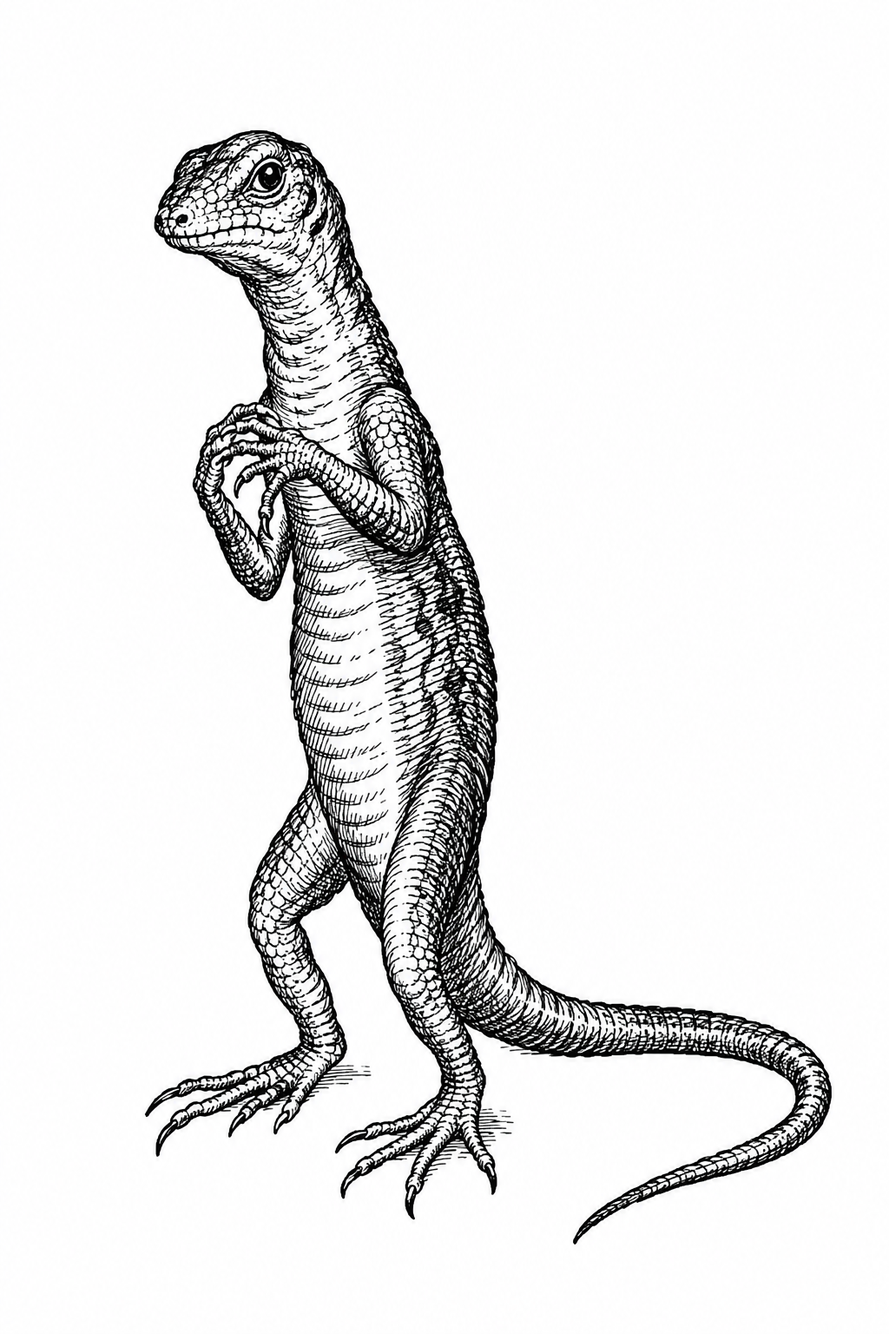
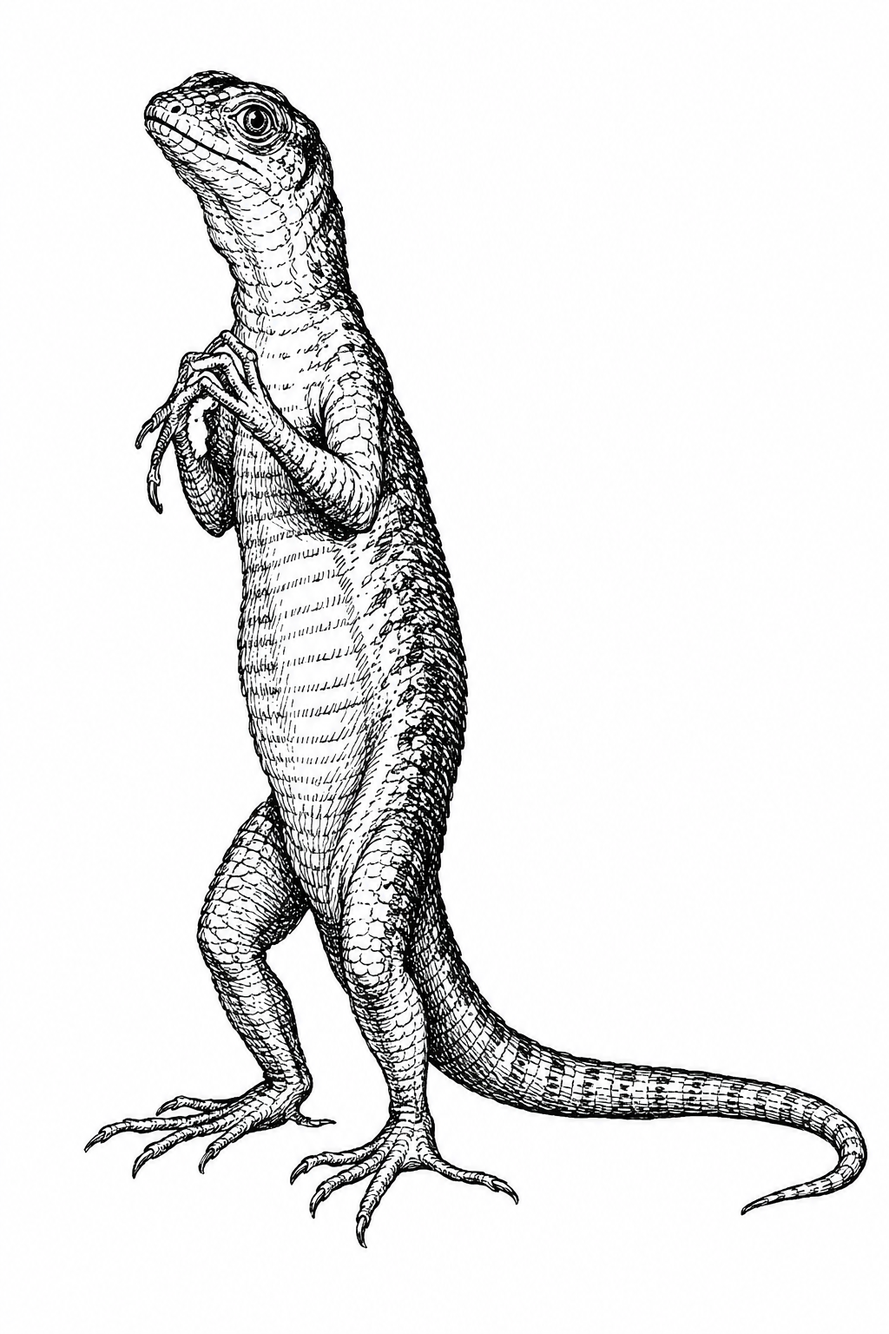
Chapter IV: Bill, the guinea-pigs, Pat and the puppy in the game
Fourteen drawings (tools/ch4_art.py): Bill standing, carrying the other
ladder, climbing, flying out of the chimney, limp; the guinea-pigs
standing, holding him up, with the bottle; Pat with his spade and with his
cap in his hands; the puppy crouching, jumping, tumbling, sitting. The
yard action is moved close to the house and clear of the cucumber-frames,
with low yard shots so it stays above the text. Bill and the guinea-pigs
also in the Chapter XII dream.

Claude-Session: https://claude.ai/code/session_01JLwjHTre9qSRtmM6Ke648R

Changed region(s): [[0.0938, 0.0312, 1.0, 0.9375], [0.6562, 0.9062, 0.6875, 0.9375]]

diff --git a/src/scenes/rabbit.js b/src/scenes/rabbit.js
@@ -157,7 +157,7 @@ export const rabbitHouse = {
     const framesWhole = paperFlat(texture(cucumberFrames(false)), 1.4, 0.44), framesBroken = paperFlat(texture(cucumberFrames(true)), 1.4, 0.44);
     for (const f of [framesWhole, framesBroken]) { f.position.set(FRAMES.x, 0, FRAMES.z); group.add(f); }
     const lad = paperFlat(texture(ladder()), 0.5, HH + 0.1); lad.position.set(HW / 2 - 0.25, 0, 0.25); lad.rotation.x = -0.08; group.add(lad);
-    const bar = paperFlat(texture(barrow()), 0.6, 0.33); bar.position.set(-1.0, 0, 1.6); group.add(bar);
+    const bar = paperFlat(texture(barrow()), 0.6, 0.33); bar.position.set(1.75, 0, 0.75); group.add(bar);
     // Her arm out of the window, hanging down the front of the house.
     const ARM = 0.7; // shoulder to fingertips at her full size: it "fills the whole window"
     const arm = paperFlat(ai['ch4/alice_hand'].tex, ARM, ARM / ai['ch4/alice_hand'].aspect, { anchor: 'center' }); // AI, after Tenniel's plate 4.2
@@ -192,7 +192,7 @@ export const rabbitHouse = {
         return { ...s, pose: 'stand', scale, visible: t < T.upstairs - 1.2 };
       }
       if (t >= T.ranOut) { // out of the door, small, and away "as hard as she could"
-        const s = route(t, [[T.ranOut, { x: DOORX, z: 0.15, dir: -1 }], [T.held - 1, { x: DOORX - 0.2, z: 0.6 }], [T.ranOff, { x: DOORX - 0.2, z: 0.6 }], [T.ranOff + 3, { x: -3.5, z: 2.2 }]], { phase: t * 3 });
+        const s = route(t, [[T.ranOut, { x: DOORX, z: 0.15, dir: 1 }], [T.held - 1, { x: DOORX + 0.05, z: 0.45 }], [T.ranOff, { x: DOORX + 0.05, z: 0.45 }], [T.ranOff + 3, { x: -3.5, z: 1.6, dir: -1 }]], { phase: t * 3 });
         return { ...s, pose: 'stand', scale, y: 0 };
       }
       // Inside: in at the door (thinking of Dinah), to the table, to the looking-glass, then growing.
@@ -220,45 +220,49 @@ export const rabbitHouse = {
       const s = route(t, [
         [T.window - 1, { x: DOORX + 0.3, z: 1.0, dir: 1 }], [T.window + 4, UNDER],      // "round … to the window"
         [T.shriek, UNDER], [T.shriek + 0.4, { x: FRAMES.x, z: FRAMES.z + 0.02 }],          // into a cucumber-frame
-        [T.pat + 8, { x: FRAMES.x, z: FRAMES.z + 0.02 }], [T.pat + 12, { x: FRAMES.x - 0.6, z: 1.5 }],
-        [T.snatch2 - 1, { x: FRAMES.x - 0.6, z: 1.5 }], [T.rumbling + 3, { x: -0.6, z: 1.9 }],
-        [T.ranOut, { x: -0.6, z: 1.9 }], [T.held, { x: DOORX + 1.0, z: 1.4 }],
+        [T.pat + 8, { x: FRAMES.x, z: FRAMES.z + 0.02 }], [T.pat + 12, { x: FRAMES.x - 0.6, z: 1.0 }],
+        [T.snatch2 - 1, { x: FRAMES.x - 0.6, z: 1.0 }], [T.rumbling + 3, { x: -0.1, z: 1.05 }],
+        [T.ranOut, { x: -0.1, z: 1.05 }], [T.held, { x: DOORX + 1.0, z: 1.0 }],
       ], { pose: 'watch', phase: t * 2.4 });
       const tumble = fell && t < T.pat + 10 ? Math.min(1, (t - T.shriek) / 0.4) : 0;
       return { ...s, tilt: tumble * 1.2, y: -tumble * 0.12, dir: t > T.pat + 12 && !s.moving ? 1 : s.dir };
     }
     function pat(t) {
       if (t < T.pat + 1) return { visible: false };
-      const s = route(t, [[T.pat + 1, { x: 2.6, z: 1.6, dir: -1 }], [T.pat2, { x: FRAMES.x + 0.5, z: 1.1 }], [T.snatch2 - 3, { x: FRAMES.x + 0.15, z: 0.6 }],
-        [T.snatch2 + 0.4, { x: FRAMES.x + 0.25, z: FRAMES.z + 0.02 }], [T.snatch2 + 8, { x: FRAMES.x + 0.25, z: FRAMES.z + 0.02 }], [T.rumbling + 5, { x: 1.6, z: 2.0 }]], { pose: 'spade', phase: t * 2.4 });
+      const s = route(t, [[T.pat + 1, { x: 2.6, z: 1.0, dir: -1 }], [T.pat2, { x: FRAMES.x + 0.5, z: 0.95 }], [T.snatch2 - 3, { x: FRAMES.x + 0.15, z: 0.6 }],
+        [T.snatch2 + 0.4, { x: FRAMES.x + 0.25, z: FRAMES.z + 0.02 }], [T.snatch2 + 8, { x: FRAMES.x + 0.25, z: FRAMES.z + 0.02 }], [T.rumbling + 5, { x: 1.6, z: 1.1 }]], { pose: 'spade', phase: t * 2.4 });
       const fell = t >= T.snatch2 + 0.2 && t < T.snatch2 + 8 ? 1 : 0;
-      return { ...s, tilt: fell * -1.1, y: -fell * 0.08 };
+      const nervous = t >= T.pat2 + 2 && t < T.snatch2 - 4 && !s.moving; // "Sure, I don't like it, yer honour"
+      return { ...s, pose: nervous ? 'cap' : 'spade', tilt: fell * -1.1, y: -fell * 0.08 };
     }
     const ROOF = { x: CHIMNEY.x, z: 0.05 };
     function bill(t) {
       if (t < T.rumbling) return { visible: false };
       if (t < T.kick) {
-        const s = route(t, [[T.rumbling, { x: -2.4, z: 2.0, dir: 1 }], [T.heads - 4, { x: HW / 2 - 0.25, z: 0.45 }], [T.downChimney + 4, { x: HW / 2 - 0.25, z: 0.45 }], [T.kick - 6, ROOF]], { pose: 'stand', phase: t * 2.4 });
+        const s = route(t, [[T.rumbling, { x: -2.6, z: 0.9, dir: 1 }], [T.heads - 4, { x: HW / 2 - 0.25, z: 0.45 }], [T.downChimney + 4, { x: HW / 2 - 0.25, z: 0.45 }], [T.kick - 6, ROOF]], { pose: 'stand', phase: t * 2.4 });
         const climb = smooth((t - T.downChimney - 4) / 8); // up the ladder and over the roof to the chimney
-        return { ...s, y: climb * (HH - 0.05), visible: t < T.kick - 5 };
+        const pose = t < T.heads - 4 ? 'ladder' : t >= T.downChimney + 4 ? 'climb' : 'stand';  // "Bill's got the other" ladder
+        return { ...s, pose, dir: pose === 'stand' ? -1 : s.dir, y: climb * (HH - 0.05), visible: t < T.kick - 5 };
       }
       if (t < T.kick + 3) { // "up I goes like a sky-rocket!" and down by the hedge
         const k = (t - T.kick) / 3;
-        return { pose: 'fly', x: lerp(CHIMNEY.x, 2.4, k), z: lerp(0.05, 2.2, k), y: HH + 0.2 + 2.5 * 4 * k * (1 - k) - k * k * HH * 0.9, tilt: k * 6, dir: 1 };
+        return { pose: 'fly', x: lerp(CHIMNEY.x, 2.0, k), z: lerp(0.05, 0.7, k), y: HH + 0.2 + 2.5 * 4 * k * (1 - k) - k * k * HH * 0.9, tilt: -k * 2.6, dir: 1 }; // up, over and down
       }
-      const held = { x: DOORX + 0.5, z: 1.1 };
-      const s = route(t, [[T.kick + 3, { x: 2.4, z: 2.2 }], [T.feeble - 2, { x: 2.4, z: 2.2 }], [T.feeble + 2, held]], { pose: 'stand', phase: t * 1.5 });
-      return { ...s, tilt: t < T.feeble ? -1.4 : 0.3, y: t >= T.feeble ? 0.06 : 0 }; // limp, held up
+      const held = { x: DOORX - 0.6, z: 0.7 }; // left of the door, clear of the cucumber-frames
+      const s = route(t, [[T.kick + 3, { x: 2.0, z: 0.7 }], [T.feeble - 2, { x: 2.0, z: 0.7 }], [T.feeble + 2, held]], { pose: 'limp', phase: t * 1.5 });
+      return { ...s, pose: 'limp', tilt: t < T.feeble ? -1.4 : 0, y: t >= T.feeble ? 0.06 : 0 }; // limp by the hedge, then held up
     }
     const helper = (side) => (t) => {
       if (t < T.kick + 3) return { visible: false };
-      const s = route(t, [[T.kick + 3, { x: 2.4 + side * 0.3, z: 2.4 }], [T.feeble - 2, { x: 2.4 + side * 0.22, z: 2.25 }], [T.feeble + 2, { x: DOORX + 0.5 + side * 0.2, z: 1.12 }]], { pose: 'up', phase: t * 2 });
-      return { ...s, dir: -side };
+      const s = route(t, [[T.kick + 3, { x: 2.0 + side * 0.3, z: 0.85 }], [T.feeble - 2, { x: 2.0 + side * 0.2, z: 0.72 }], [T.feeble + 2, { x: DOORX - 0.6 + side * 0.17, z: 0.72 }]], { pose: 'up', phase: t * 2 });
+      // Holding him up under the arms; the other gives him something out of a bottle ("Brandy now").
+      const pose = t >= T.feeble - 2 ? (side < 0 ? 'hold' : 'bottle') : 'up';
+      return { ...s, pose, dir: -side };
     };
-    const CROWD = { duck: [-1.6, 2.2], lory: [-1.2, 2.6], eaglet: [1.1, 2.5], owl: [0.6, 2.8], magpie: [-0.4, 2.7], canary: [1.8, 2.7] };
+    const CROWD = { duck: [-1.6, 1.0], lory: [-1.2, 1.25], eaglet: [1.1, 1.2], owl: [0.6, 1.35], magpie: [-0.4, 1.3], canary: [1.8, 1.25] }; // close to the house, above the text strip
     const crowd = Object.fromEntries(Object.entries(CROWD).map(([name, [x, z]], i) => [name, (t) => {
       if (t < T.rumbling + 2) return { visible: false };
-      const rush = t >= T.ranOff - 1.5 ? { x: DOORX - 0.4 + i * 0.12, z: 0.9 + (i % 2) * 0.2 } : { x, z };   // "they all made a rush at Alice"
+      const rush = t >= T.ranOff - 1.5 ? { x: DOORX - 0.4 + i * 0.12, z: 0.6 + (i % 2) * 0.15 } : { x, z };   // "they all made a rush at Alice"
       const s = route(t, [[T.rumbling + 2, { x: x - 3, z, dir: 1 }], [T.rumbling + 8 + i, { x, z }], [T.ranOff - 1.5, { x, z }], [T.ranOff + 0.5, rush]], { pose: 'up', phase: t * 2 + i });
       return { ...s, scale: 1.8 }; // Chapter III's creatures, at the Rabbit's scale
     }]));
@@ -309,12 +313,14 @@ export const rabbitHouse = {
     const OUT = {
       wide: IN([0.3, 1.7, 7.5], [0.2, 1.6, 0]),
       door: IN([-0.6, 0.7, 2.6], [DOORX, 0.6, 0]),
-      house: IN([0.6, 1.4, 5.6], [0.2, 0.95, 0]),            // the house, her in it, the arm, the frames below
+      house: IN([0.6, 1.3, 5.6], [0.2, 0.7, 0]),             // the house, her in it, the arm, the yard in front
       window: IN([0.8, 1.6, 3.4], [0.35, 1.5, 0]),           // "what's that in the window?"
       frames: IN([FRAMES.x + 0.6, 0.5, 2.2], [FRAMES.x - 0.1, 0.25, FRAMES.z]),
       roof: IN([1.2, 2.7, 4.6], [0.45, 2.15, 0]),            // the roof and the chimney, and her below
       sky: IN([1.6, 1.8, 6.0], [1.4, 2.6, 0.8]),
-      crowd: IN([0.4, 1.3, 6.2], [0.5, 0.9, 0.6]),           // the crowd below, and the house
+      yard: IN([0.9, 0.45, 3.0], [0.8, 0.05, 0.6]),          // low on the yard (her window out of the picture): the crowd, Bill, the guinea-pigs
+      yardWide: IN([0.0, 0.5, 3.6], [-0.2, -0.05, 0.6]),     // the cart and the crowd arriving, Bill with the other ladder
+      held: IN([DOORX - 0.4, 0.45, 3.0], [DOORX - 0.5, 0.05, 0.6]),  // Bill held up by the guinea-pigs
     };
     // Cuts (dur 0) wherever the front changes, so the cut-away never appears or vanishes in view.
     const k = (t, dur, s) => ({ t, dur, ...s });
@@ -338,19 +344,20 @@ export const rabbitHouse = {
       k(T.pat2 + 18, 0, CUT.near),                                                   // a long silence, and whispers
       k(T.snatch2 - 1, 0, OUT.house), k(T.snatch2 + 2, 0, OUT.frames),               // the second snatch
       k(T.snatch2 + 6, 0, CUT.her),                                                  // "What a number of cucumber-frames"
-      k(T.rumbling - 1, 0, OUT.crowd), k(T.rumbling + 10, 6, OUT.house),             // the cart, the ladders
+      k(T.rumbling - 1, 0, OUT.yardWide), k(T.rumbling + 10, 6, OUT.house),              // the cart; Bill with the other ladder
       k(T.heads - 3, 3, OUT.roof), k(T.heads + 4, 0, CUT.near),                      // "Heads below!"
-      k(T.downChimney + 8, 0, OUT.roof),                                             // Bill up the ladder to the chimney
+      k(T.downChimney + 3, 0, OUT.roof),                                             // Bill up the ladder to the chimney
       k(T.kick - 9, 0, CUT.her),                                                     // her foot down the chimney
-      k(T.kick - 0.5, 0, OUT.sky), k(T.kick + 4, 4, OUT.crowd),                      // "There goes Bill!"
-      k(T.feeble - 5, 0, CUT.near), k(T.feeble, 0, OUT.crowd),                       // Bill's feeble voice
+      k(T.kick - 0.5, 0, OUT.sky), k(T.kick + 3.5, 0, OUT.yard),                     // "There goes Bill!" "Catch him, you by the hedge!"
+      k(T.feeble + 5.5, 4, OUT.house),                                               // "Hold up his head—Brandy now"
+      k(T.feeble + 14, 0, OUT.held), k(T.feeble + 24, 0, CUT.near),                  // Bill's feeble voice; "like a sky-rocket!"
       k(T.burn - 1, 0, CUT.her), k(T.dinah2 + 2, 4, CUT.near),                       // "I'll set Dinah at you!"
-      k(T.barrowful - 2, 0, OUT.crowd),                                              // "A barrowful will do"
+      k(T.barrowful - 2, 0, OUT.house),                                              // "A barrowful will do"
       k(T.pebbles - 1, 0, CUT.her),                                                  // the pebbles in at the window
       k(T.cakes - 3, 4, CUT.floor),                                                  // turning into little cakes
       k(T.swallowed, 3, CUT.her), k(T.swallowed + 3, 3, CUT.small),                  // shrinking
-      k(T.ranOut - 0.5, 0, IN([DOORX - 0.7, 0.28, 1.6], [DOORX - 0.05, 0.12, 0.5])),   // out of the door, tiny, and the crowd
-      k(T.held, 3, IN([DOORX - 0.8, 0.32, 1.9], [DOORX + 0.05, 0.14, 0.75])),
+      k(T.ranOut - 0.5, 0, IN([DOORX - 0.3, 0.45, 2.7], [DOORX - 0.2, 0.15, 0.5])),     // out of the door, tiny; Bill held up
+      k(T.held, 3, IN([DOORX - 0.35, 0.47, 2.9], [DOORX - 0.25, 0.16, 0.6])),
     ]);
     return {
       T, bg: PAPER, fog: [9, 30], bounds: { minX: -2.5, maxX: 2.5, minZ: 0.8, maxZ: 6 },
@@ -427,7 +434,11 @@ export const wood = {
       ], { phase: t * 1.5 });
       const jump = t >= T.jumped && t < T.jumped + 0.8 ? Math.sin(((t - T.jumped) / 0.8) * Math.PI) * 0.25 : 0; // "jumped into the air off all its feet at once"
       const tumble = t >= T.tumbled && t < T.tumbled + 1.2 ? ((t - T.tumbled) / 1.2) * Math.PI * 2 : 0;       // "tumbled head over heels"
-      return { ...s, x: s.x + charge, pose: t >= T.sat + 3 ? 'sit' : 'stand', y: jump, tilt: tumble, dir: -1, visible: t < T.escape + 6 };
+      // AI poses (2026-10-14): crouching, jumping "off all its feet at once", tumbling, sitting panting.
+      let pose = t >= T.sat + 3 ? 'sit' : 'stand';
+      if (jump > 0) pose = 'jump';
+      if (tumble > 0) pose = 'tumble';
+      return { ...s, x: s.x + charge, pose, y: jump, tilt: tumble, dir: -1, visible: t < T.escape + 6 };
     }
     function update(t, cast) {
       st.visible = t >= T.stick && t < T.escape;

diff --git a/src/main.js b/src/main.js
@@ -9,7 +9,6 @@ import { PerfMeter } from './perf.js';
 import { sentenceStarts, skip, Timeline } from './navigate.js';
 import { CHAPTERS } from './chapters.js';
 import { texture } from './ink.js';
-import { lizard, guineaPig, puppy } from './props4.js';
 import { pigeon } from './props5.js';
 import { card } from './props8.js';
 import { mouseUp, mouseWalk, owlStand, crabStand, magpieStand, canaryStand } from './props3.js';
@@ -65,7 +64,7 @@ async function main() {
     'hall/floor', 'hall/lamp', 'hall/curtain', 'hall/door_frame', 'hall/door_leaf',
     'props/key', 'props/bottle', 'props/cake', 'props/box', 'props/fan', // tools/small_props.py
     'ch1/leaf_heap', 'ch1/alice_land', 'ch1/garden', 'ch1/rabbit_run_away', 'ch1/rabbit_watch', 'ch1/rabbit_trot',
-    'walls/shaft_side', 'walls/passage', 'walls/passage_floor', 'walls/passage_ceiling', 'walls/hall', 'walls/hall_ceiling', 'ch5/caterpillar_sit', 'ch4/alice_hand', 'ch6/cheshire_bough', 'ch6/cheshire_bough_empty', 'ch6/cheshire_grin', 'ch6/cheshire_paw', ...['queen_stand', 'queen_point', 'queen_flush', 'queen_stamp', 'queen_folded', 'queen_specs', 'queen_purple', 'king_stand', 'king_judge', 'king_judge_specs', 'king_judge_fold', 'king_judge_point', 'king_judge_pale', 'knave_carry', 'knave_stand', 'knave_chains', 'executioner', ...['two', 'five', 'seven'].flatMap((c) => ['stand', 'paint', 'bow', 'run'].map((p) => `${c}_${p}`)), 'two_kneel', 'rose_tree', 'rose_white', 'rose_red', 'card_back', 'suit_heart', 'suit_diamond', 'suit_club', 'suit_spade', 'body_soldier', 'body_courtier', 'body_child', 'body_officer', 'card_arch', 'king_clubs', 'king_diamonds', 'king_spades', 'queen_clubs', 'queen_diamonds', 'queen_spades', 'knave_spades'].map((n) => `ch8/${n}`), ...['hatter_sit_stare', 'hatter_sit_riddle', 'hatter_sit_watch', 'hatter_cup', 'hatter_pale', 'hatter_bite', 'hatter_tremble', 'hatter_knee', 'hatter_run', 'marchhare_sit', 'marchhare_dip', 'dormouse_sleep', 'dormouse_talk'].map((n) => `ch7/${n}`), 'vignettes/axis', 'vignettes/pigs', 'ch6/cheshire_hearth', ...['fish_footman', 'frog_footman', 'frog_footman_sit', 'footmen_bow', 'cook_stir', 'cook_throw', 'baby_starfish', 'baby_snout', 'pig_trot', 'kitchen_back', 'kitchen_side', 'little_house', 'march_hare_house', ...['irons', 'saucepan', 'saucepan2', 'pan', 'plate', 'plate2', 'plate3', 'dish'].map((n) => `thrown_${n}`)].map((n) => `ch6/${n}`),
+    'walls/shaft_side', 'walls/passage', 'walls/passage_floor', 'walls/passage_ceiling', 'walls/hall', 'walls/hall_ceiling', 'ch5/caterpillar_sit', 'ch4/alice_hand', ...['bill_stand', 'bill_ladder', 'bill_climb', 'bill_rocket', 'bill_limp', 'guinea_stand', 'guinea_hold', 'guinea_bottle', 'pat', 'pat_cap', 'puppy_look', 'puppy_jump', 'puppy_tumble', 'puppy_sit'].map((n) => `ch4/${n}`), 'ch6/cheshire_bough', 'ch6/cheshire_bough_empty', 'ch6/cheshire_grin', 'ch6/cheshire_paw', ...['queen_stand', 'queen_point', 'queen_flush', 'queen_stamp', 'queen_folded', 'queen_specs', 'queen_purple', 'king_stand', 'king_judge', 'king_judge_specs', 'king_judge_fold', 'king_judge_point', 'king_judge_pale', 'knave_carry', 'knave_stand', 'knave_chains', 'executioner', ...['two', 'five', 'seven'].flatMap((c) => ['stand', 'paint', 'bow', 'run'].map((p) => `${c}_${p}`)), 'two_kneel', 'rose_tree', 'rose_white', 'rose_red', 'card_back', 'suit_heart', 'suit_diamond', 'suit_club', 'suit_spade', 'body_soldier', 'body_courtier', 'body_child', 'body_officer', 'card_arch', 'king_clubs', 'king_diamonds', 'king_spades', 'queen_clubs', 'queen_diamonds', 'queen_spades', 'knave_spades'].map((n) => `ch8/${n}`), ...['hatter_sit_stare', 'hatter_sit_riddle', 'hatter_sit_watch', 'hatter_cup', 'hatter_pale', 'hatter_bite', 'hatter_tremble', 'hatter_knee', 'hatter_run', 'marchhare_sit', 'marchhare_dip', 'dormouse_sleep', 'dormouse_talk'].map((n) => `ch7/${n}`), 'vignettes/axis', 'vignettes/pigs', 'ch6/cheshire_hearth', ...['fish_footman', 'frog_footman', 'frog_footman_sit', 'footmen_bow', 'cook_stir', 'cook_throw', 'baby_starfish', 'baby_snout', 'pig_trot', 'kitchen_back', 'kitchen_side', 'little_house', 'march_hare_house', ...['irons', 'saucepan', 'saucepan2', 'pan', 'plate', 'plate2', 'plate3', 'dish'].map((n) => `thrown_${n}`)].map((n) => `ch6/${n}`),
     ...['duchess_nurse', 'duchess_toss', 'duchess_fling', 'duchess9_arm', 'duchess9_tremble', 'duchess9_run'].map((n) => `ch6/${n}`),
     ...['sit', 'sob', 'count', 'hide', 'dance', 'sing', 'yawn'].map((n) => `ch9/mockturtle_${n}`),
     ...['sit', 'asleep', 'walk', 'paws', 'hide', 'dance', 'bound'].map((n) => `ch9/gryphon_${n}`), 'vignettes/dinah', 'vignettes/bats', 'vignettes/stairs', 'vignettes/globe', 'vignettes/histories', 'vignettes/poker', 'vignettes/knife', 'vignettes/poison', 'vignettes/candle', 'vignettes/telescope', 'vignettes/croquet', // tools/walls.py // tools/ch1_art.py
@@ -226,11 +225,13 @@ async function main() {
     canary: new Puppet({ up: drawn(canaryStand(), 0.06) }, 0.06),
     crab: new Puppet({ stand: drawn(crabStand(), 0.035) }, 0.035),
     crabling: new Puppet({ stand: drawn(crabStand(true), 0.022) }, 0.022),
-    // Chapter IV placeholders (props4.js).
-    bill: new Puppet({ stand: drawn(lizard('stand'), 0.3), fly: drawn(lizard('fly'), 0.3) }, 0.3),
-    pat: new Puppet({ spade: drawn(guineaPig(true), 0.4) }, 0.4),
-    pig1: new Puppet({ up: drawn(guineaPig(), 0.32) }, 0.32),
-    pig2: new Puppet({ up: drawn(guineaPig(), 0.32) }, 0.32),
+    // Chapter IV (AI drawings, tools/ch4_art.py, 2026-10-14): Bill the Lizard after Tenniel's plate 4.3,
+    // the two guinea-pigs and Pat (a guinea-pig gardener in a smock and cap; the book doesn't say).
+    bill: new Puppet({ stand: art('ch4/bill_stand', 0.32), ladder: art('ch4/bill_ladder', 0.34, false), climb: art('ch4/bill_climb', 0.42),
+      fly: art('ch4/bill_rocket', 0.45), limp: art('ch4/bill_limp', 0.42) }, 0.32),
+    pat: new Puppet({ spade: art('ch4/pat', 0.4), cap: art('ch4/pat_cap', 0.39) }, 0.4),
+    ...Object.fromEntries(['pig1', 'pig2'].map((n) => [n, new Puppet({ up: art('ch4/guinea_stand', 0.32), hold: art('ch4/guinea_hold', 0.33, false),
+      bottle: art('ch4/guinea_bottle', 0.33) }, 0.32)])),
     // Chapter V placeholders.
     // The AI drawing (tools/ch5_art.py): blue, with his hookah, on the scene's own mushroom.
     caterpillar: new Puppet({ sit: art('ch5/caterpillar_sit', 0.1) }, 0.1),
@@ -278,7 +279,7 @@ async function main() {
     mockTurtle: new Puppet(Object.fromEntries([['sit', 1399, 0.231], ['sob', 1395, 0.239], ['count', 1399, 0.232], ['hide', 1442, 0.223],
       ['walk', 1356, 0.069, 'dance'], ['sing', 1370, 0.036], ['yawn', 1409, 0.227]]
       .map(([pose, px, drop, name = pose]) => [pose, { ...art(`ch9/mockturtle_${name}`, px * 0.4525 / 1399), drop }])), 0.35),
-    puppy: new Puppet({ stand: drawn(puppy('stand'), 0.75), sit: drawn(puppy('sit'), 0.8) }, 0.75),
+    puppy: new Puppet({ stand: art('ch4/puppy_look', 0.75), jump: art('ch4/puppy_jump', 0.62), tumble: art('ch4/puppy_tumble', 0.75), sit: art('ch4/puppy_sit', 0.8) }, 0.75), // after Tenniel's plate 4.4
   };
   Object.values(cast).forEach((p) => scene.add(p.root));
 

diff --git a/src/scenes/evidence.js b/src/scenes/evidence.js
@@ -13,7 +13,6 @@ import { paperFlat, buildStage } from '../stage.js';
 import { texture, PAPER } from '../ink.js';
 import { card, cardBack, SOLDIERS, COURTIERS, CHILDREN, GUESTS, OFFICERS, hedgehog } from '../props8.js';
 import { mouseWalk } from '../props3.js';
-import { lizard, guineaPig } from '../props4.js';
 import { teapot } from '../props7.js';
 import { verses, noteBook, inkstand, deadLeaf, goldfishVignette, countryVignette, grownAliceVignette } from '../props12.js';
 import { buildCourt, THRONE, KING, QUEEN, HERALD, KNAVE, JURY, BILL } from '../sets/court.js';
@@ -211,8 +210,8 @@ export const waking = {
       ghost(ai['ch8/queen_point'], 1.1, 0.5, -2.6, T.queen, reality(0.3)),
       ghost(ai['ch6/duchess_nurse'], 1.1, -4.3, -2.5, T.pig, reality(0.55)), ghost(ai['ch6/baby_snout'], 0.35, -3.9, -2.3, T.pig, reality(0.55)),
       ghost(ai['ch9/gryphon_walk'], 0.75, -1.6, -3.3, T.gryphon, reality(0.6)),
-      ghost(lizard('stand'), 0.5, -1.9, -2.1, T.gryphon + 1.5, reality(0.7)),
-      ghost(guineaPig(), 0.42, 1.1, -2.3, T.gryphon + 3.5, reality(0.75)), ghost(guineaPig(), 0.42, 1.45, -2.4, T.gryphon + 3.8, reality(0.75)),
+      ghost(ai['ch4/bill_stand'], 0.5, -1.9, -2.1, T.gryphon + 1.5, reality(0.7)),
+      ghost(ai['ch4/guinea_stand'], 0.42, 1.1, -2.3, T.gryphon + 3.5, reality(0.75)), ghost(ai['ch4/guinea_bottle'], 0.42, 1.45, -2.4, T.gryphon + 3.8, reality(0.75)),
       ghost(ai['ch9/mockturtle_sob'], 1.2, 1.6, -3.2, T.turtle, T.cattle + 2),
       ghost(hedgehog('ball'), 0.16, 0.1, -2.1, T.queen + 1, reality(0.3)),
     ];

diff --git a/tools/ch4_art.py b/tools/ch4_art.py
@@ -1,0 +1,37 @@
+"""Process Chapter IV's AI drawings (Bill the Lizard, the guinea-pigs, Pat, the puppy; Bill and the
+guinea-pigs also sit on the jury in XI, XII).
+
+Each figure is cut out from white and saved to public/art/ai/ch4/; the figure's height in source
+pixels is printed (px), so poses of one character are scaled alike in main.js. CLEAR lists points
+(source pixels) inside closed gaps that are background, not paper (between the ladder's rungs).
+
+Usage: python3 tools/ch4_art.py [names...]
+"""
+import os
+import subprocess
+import sys
+import tempfile
+
+from PIL import Image
+
+OUT = "public/art/ai/ch4"
+NAMES = ["bill_stand", "bill_ladder", "bill_climb", "bill_rocket", "bill_limp", "guinea_stand", "guinea_hold",
+         "guinea_bottle", "pat", "pat_cap", "puppy_look", "puppy_jump", "puppy_tumble", "puppy_sit"]
+CLEAR = {"bill_ladder": "178,226;275,308;374,392;474,478;549,543;811,784"}
+
+
+def main():
+    os.makedirs(OUT, exist_ok=True)
+    for n in sys.argv[1:] or NAMES:
+        with tempfile.TemporaryDirectory() as d:
+            cmd = [sys.executable, "tools/whitecut.py", f"source/ai/{n}.png", f"{d}/c.png"]
+            if n in CLEAR:
+                cmd += ["--clear", CLEAR[n]]
+            subprocess.run(cmd, check=True, stdout=subprocess.DEVNULL)
+            img = Image.open(f"{d}/c.png").convert("RGBA")
+        print(f"{n}: px {img.height} aspect {img.width / img.height:.3f}")
+        img.resize((600, round(img.height * 600 / img.width)), Image.LANCZOS).save(f"{OUT}/{n}.webp", quality=90, method=6)
+
+
+if __name__ == "__main__":
+    main()

diff --git a/docs/HANDOFF.md b/docs/HANDOFF.md
@@ -19,7 +19,7 @@ Updated: 2026-10-13 (end of session 3: Chapters I–II art in, Chapter III's Ali
   - **Riverbank ground** (2026-10-14, owner): meadow grass with daisies tiled over the floor and a grassy bank lip in front (`tools/bank_art.py`; `BANK_TILE` in stage.js = 1.6 m per tile). Later, at Chapter XII: the pool with reeds beside the bank (owner: "at the right time").
   - **Chapter II**: complete (all 36): Alice ×13, Rabbit ×3, Mouse ×4, the four birds swimming and standing, gloves, splash, pool water, shore stones, 7 thoughts.
   - **Chapter III**: all 8 Alice poses and the four birds standing; the rest placeholder.
-  - **Chapter IV** (2026-10-14): Alice's 8 poses (holding the fan and gloves, drinking, cramped giant with an arm round her head, her arm out of the window (`ch4/alice_hand`, after plate 4.2), pebbles (unused so far), holding out the stick, by the buttercup, on tiptoe; hunting for the fan reuses `stoop`: the filter refused bending poses). **The Rabbit's house is a dollhouse view**: inside shots are taken from in front of the house through a cut-away front (the whole room cut until her arm goes out, then only the part left of the window, so the window and the arm stay); she grows until the crouching drawing just fills the room. Cue fixes: put-down bottle, "full effect", the Rabbit at the door. frame_report: no gap over ~7 s. Still placeholder: Bill, the guinea-pigs, Pat, the puppy, the Chapter III crowd.
+  - **Chapter IV** (2026-10-14): Alice's 8 poses (holding the fan and gloves, drinking, cramped giant with an arm round her head, her arm out of the window (`ch4/alice_hand`, after plate 4.2), pebbles (unused so far), holding out the stick, by the buttercup, on tiptoe; hunting for the fan reuses `stoop`: the filter refused bending poses). **The Rabbit's house is a dollhouse view**: inside shots are taken from in front of the house through a cut-away front (the whole room cut until her arm goes out, then only the part left of the window, so the window and the arm stay); she grows until the crouching drawing just fills the room. Cue fixes: put-down bottle, "full effect", the Rabbit at the door. frame_report: no gap over ~7 s. **Bill, the guinea-pigs, Pat and the puppy** drawn 2026-10-14 (`tools/ch4_art.py`; Bill after plate 4.3, owner picked version B; Pat is a guinea-pig gardener in smock and cap): Bill carries the other ladder, climbs, flies out of the chimney, lies limp by the hedge, then is held up left of the door by the two guinea-pigs (one with the bottle); the yard action is kept close to the house and clear of the cucumber-frames, with low yard shots that leave her window out (a shot with her partly in it makes the camera tilt up to her and hides the yard under the text). Still placeholder: the Chapter III crowd (Owl, Magpie, Canary).
   - **Chapter V**: the Caterpillar (blue), also at Chapter IV's end. Alice's 7 poses (2026-10-14: looking up, grave, turned away, reciting with folded hands (`recite5`), breaking the mushroom, nibbling, squashed); mushroom shots framed so both she and the Caterpillar are whole above the text. Still placeholder: the Pigeon, the long neck. **Chapter VI**: the Cheshire Cat in the wood (on his bough, the empty bough, the grin alone); the Cat on the kitchen hearth (prompt 22), the Duchess (all her poses, prompts 14–16), the Footmen (10–13: the letter is in the Fish-Footman's drawing, the bow is one drawing of both), the Cook (17, 18), the baby and the pig (19–21; the snout drawing also stands for the pig in its clothes), the kitchen's back wall (23; the side walls are still drawn in code). Alice's 9 poses (2026-10-14: laughing, peeping, knocking, sneezing, jumping in terror, catching and holding the baby, carrying it, the pig, from behind under the Cat). Camera re-directed (2026-10-14): Alice in the picture at least every ~10 s (frame_report). Sets and props done 2026-10-14: the little house (also V), the March Hare's house (also VII), the kitchen's side walls (kitchen made deeper so the camera stays inside), the thrown things. Not needed: the stool (hidden by her skirts, owner), the pepper-box (in the Cook's drawing), a separate bough tree (the Cat's drawing has its bough). The Cat waving and the two thoughts done too: **Chapter VI's art is complete** apart from the extras the owner ruled out.
   - **Chapters IX–X**: the Mock Turtle, every pose (sitting, sobbing into a handkerchief, counting, hiding his face, dancing, singing, yawning; the rock taken out of the sitting drawing so he sits on the set's ledge; puppet `drop` lets his tail hang below his hooves), and the Duchess in Chapter IX (arm in arm, trembling, running). `tools/ch9_art.py` processes both and prints each drawing's height and drop. The Gryphon, every pose (sitting, asleep, walking, paws up, hiding his face, dancing, bounding), 2026-10-14. Chapter XII's dream shows the new Duchess, baby, Gryphon and Mock Turtle.
   - **Chapter VII (and XI, XII)**: the Hatter (sitting: staring, riddle, watch; as a witness: teacup, pale, biting the cup, shoes shaken off, on one knee, running), the March Hare (sitting, dipping the watch), the Dormouse (asleep, telling his story), 2026-10-14 (`tools/ch7_art.py`). The safety filter blocks some Hatter prompts at random: reword and retry.
@@ -27,7 +27,7 @@ Updated: 2026-10-13 (end of session 3: Chapters I–II art in, Chapter III's Ali
   - **The gardeners Two, Five, Seven** (2026-10-14): fully drawn, pips checked. The rose-tree (roses placed by the game at `SPOTS` in sets/croquet.js, white or painted red), and the card back lying face down (one drawing for the whole pack; turned over, the gardener's own drawing lies flat).
   - **Card people plan (owner, 2026-10-14):** cards with parts in the story are drawn as characters (done: Queen, King, Knave, executioner, gardeners). The crowds (soldiers with clubs, courtiers with diamonds, the royal children, the officers) are blank-faced bodies per class (~8-10 drawings) with pips placed by the game, but the pips are four engraved AI suit signs (not flat code shapes), bent with the card. The guests "mostly Kings and Queens" are court cards: the Kings and Queens of Clubs, Diamonds, Spades and the Knave of Spades, one standing drawing each.
   - **Crowd cards done (2026-10-14)**: `src/cards.js` `crowdCard(ai, who, h)` composes any number card from its class body + the engraved suit sign (pips only on blank paper, so hands/bags hide them), and returns the guest court cards; the croquet arches are a soldier bent into a hoop.
-  - Still to generate (owner, 2026-10-14: every character): Bill, the guinea-pigs, Pat, the puppy (IV), the Pigeon (V), the Owl, Magpie, Canary, crabs (III), flamingos, hedgehogs (VIII), the jurors (XI), and Alice's poses for III (done), VII–XII.
+  - Still to generate (owner, 2026-10-14: every character; order agreed: the Pigeon next): the Pigeon (V), the Owl, Magpie, Canary, crabs (III), flamingos, hedgehogs (VIII), the jurors (XI), and Alice's poses for III (done), VII–XII.
   - The rest of the book is placeholder art drawn in code.
 - **Alice's walk**: two matching steps from one drawing (`alice_walk_pair`); keep it. **Do not generate the walk cycle** (owner, 2026-10-13: the owner will make it later; the API attempts got the arms and legs wrong).
 - **Chapter I's audio starts with 4.14 s of added silence** (owner, 2026-10-14: a 5 s hold in the theatre seat before "CHAPTER I"; `lead_silence` in ch01_words.json, all times shifted). If `tools/narration.py`/`forced_align.py` is ever rerun for Chapter I, add the silence and the shift again (original audio: `ffmpeg -ss 4.14`).

diff --git a/PROVENANCE.md b/PROVENANCE.md
@@ -145,6 +145,7 @@ Every shipped asset is listed here with its source. AI-generated or AI-modified 
 | ai_alice3_call_v2 | `public/art/ai/poses/call.webp` | AI | Second version of Chapter III prompt 7; original in `source/ai/alice3_call_v2.webp` | OpenAI ChatGPT (GPT-6 chat); OpenAI image generation, exact image model not disclosed; received 2026-10-12 | Whole image generated. Cut out, paper-tinted and scaled to the standing Alice (`tools/compose_poses.py`). Replaces the first version (kept as a spare). | 2026-10-12 | Owner (generated), Claude Code (processed) |
 | ai_alice6_poses | `public/art/ai/poses/peep.webp`, `laugh`, `knock`, `sneeze`, `baby`, `pig`, `terror`, `back`, `catch` | AI | Chapter VI prompts 1–9; originals in `source/ai/alice6_*.png`, from the model sheet `source/ai/alice_turnaround.webp` (with Tenniel's plates 6.3 and 6.4 cropped to Alice for the baby, pig and from-behind poses: `source/plates/tenniel_w06-3_alice_only.png`, `tenniel_w06-4_alice_back_only.png`) | OpenAI gpt-image-2.5-sunburst via the API (generated by Claude Code, 2026-10-14) | Whole images generated. Cut out, paper-tinted and scaled to the standing Alice with `tools/compose_poses.py`. Used in Chapter VI. | 2026-10-14 | Owner (approved), Claude Code (generated, processed) |
 | ai_alice45_poses | `public/art/ai/poses/hold4.webp`, `drink`, `giant`, `pebbles`, `stick`, `buttercup`, `tiptoe`, `lookup`, `grave`, `away`, `recite5`, `break`, `nibble`, `squashed`; `public/art/ai/ch4/alice_hand.webp` | AI | Chapter IV and V Alice prompts; originals in `source/ai/alice4_*.png` and `source/ai/alice5_*.png`, from the model sheet `source/ai/alice_turnaround.webp` (the arm after Tenniel's plate 4.2, cropped to the arm: `source/plates/tenniel_w04-2_hand_only.png`; redrawn twice the same day after the owner saw six fingers and a misshapen hand; the final arm is drawn from the approved model sheet only (owner: "use the approved Alice model's hand, not the engravings"), reference crop `source/ai/ref_alice_arms_crop.png`: one thumb and four fingers; plates 4.1, 4.2, 4.4 from victorianweb.org in `source/plates/`) | OpenAI gpt-image-2.5-sunburst via the API (generated by Claude Code, 2026-10-14) | Whole images generated. Cut out, paper-tinted and scaled to the standing Alice with `tools/compose_poses.py`. Used in Chapters IV and V. | 2026-10-14 | Owner (approved), Claude Code (generated, processed) |
+| ai_ch4_characters | `public/art/ai/ch4/bill_stand.webp`, `bill_ladder`, `bill_climb`, `bill_rocket`, `bill_limp`, `guinea_stand`, `guinea_hold`, `guinea_bottle`, `pat`, `pat_cap`, `puppy_look`, `puppy_jump`, `puppy_tumble`, `puppy_sit` | AI | Chapter IV prompts (Bill, the guinea-pigs, Pat, the puppy); originals in `source/ai/` under the same names. Bill after Tenniel's plate 4.3 (`source/plates/tenniel_w04-3_bill_only.png`), the puppy after plate 4.4 (`source/plates/tenniel_w04-4_puppy_only.png`), both from victorianweb.org; the guinea-pig drawn in Bill's style; Pat from the guinea-pig (smock, cap, spade: the book doesn't say what animal he is); every later pose from that character's first picture. Owner chose Bill version B (`bill_stand.png`; `bill_stand_alt.png` unused). | OpenAI gpt-image-2.5-sunburst via the API (generated by Claude Code, 2026-10-14) | Whole images generated. Cut out and paper-tinted with `tools/ch4_art.py` (the gaps between the ladder's rungs cleared). Used in Chapter IV and the Chapter XII dream. | 2026-10-14 | Owner (approved first pictures), Claude Code (generated, processed) |
 | ai_alice_walk_pair | `public/art/ai/poses/walk_a.webp`, `walk_b.webp` | AI | Alice walking, two matching steps in one drawing (owner, 2026-10-13); original in `source/ai/alice_walk_pair.webp` | OpenAI ChatGPT (GPT-6 chat); OpenAI image generation, exact image model not disclosed; received 2026-10-13 | Whole image generated. Split in two, cut out, paper-tinted and scaled to the standing Alice (`tools/compose_poses.py`). Replaces the earlier walk_a and the walk_b phone screenshot (both kept in source/ai). | 2026-10-13 | Owner (generated), Claude Code (processed) |
 | rabbit_white | `public/art/rabbit_w01-1_white.png`, `public/art/ai/ch1/rabbit_*.webp`, `public/art/ai/ch2/rabbit2_*.webp` | (see each Rabbit row) | The same Rabbit drawings | — | Paper tint taken off so he is pure white, pink eyes kept (owner, 2026-10-13; `tools/white_rabbit.py`). | 2026-10-13 | Claude Code |
 | ai_caterpillar_sit | `public/art/ai/ch5/caterpillar_sit.webp` | AI | Chapter V prompt 9 (docs/ASSETS_MASTER.md); original in `source/ai/caterpillar_sit.png` | OpenAI gpt-image-2 via the API (generated by Claude Code, 2026-10-13), from Tenniel's plate 5.1 cropped to the Caterpillar (source/plates/tenniel_w05-1_caterpillar_only.png) and the first version (source/ai/caterpillar_sit_v1.png) | Whole image generated. Cut out, the drawn mushroom cap removed, the Caterpillar coloured blue (COLOR.md) (`tools/ch5_art.py`). Used in Chapter IV's end and Chapter V. | 2026-10-13 | Owner (approved), Claude Code (generated, processed) |

diff --git a/docs/ASSETS_MASTER.md b/docs/ASSETS_MASTER.md
@@ -1,7 +1,7 @@
 # Master Asset List
 Generated by `tools/assets_master.py` from the chapter lists. **Don't edit by hand**: change the chapter list in `docs/ART_PROMPTS.md` (and the reasons in `docs/CHAPTER_NN_ASSETS.md`), then run the script.
 
-**Progress:** 167 of 371 images received. A box is ticked when a file with that name is in `source/ai/`.
+**Progress:** 174 of 371 images received. A box is ticked when a file with that name is in `source/ai/`.
 
 ## How to use this document
 1. Use **one ChatGPT conversation** for everything, so the style and the characters stay the same.
@@ -243,15 +243,15 @@ Background and sources: [CHAPTER_04_ASSETS.md](CHAPTER_04_ASSETS.md). Same conve
 - [ ] **14.** `rabbit4_order.png`: "The White Rabbit giving orders, one paw raised, standing on a garden path."
 
 ### New characters
-- [ ] **15.** `pat.png`: "Pat, the Rabbit's gardener, a small animal (a guinea-pig) in a smock, holding a spade; then a second image of him standing nervously, cap in hand."
-- [ ] **16.** `bill_ladder.png` (attach 4.3): "Bill, a small lizard in Tenniel's style, standing on his hind legs carrying a ladder over his shoulder."
+- [x] **15.** `pat.png`: "Pat, the Rabbit's gardener, a small animal (a guinea-pig) in a smock, holding a spade; then a second image of him standing nervously, cap in hand."
+- [x] **16.** `bill_ladder.png` (attach 4.3): "Bill, a small lizard in Tenniel's style, standing on his hind legs carrying a ladder over his shoulder."
 - [ ] **17.** `bill_chimney.png`: "The same lizard climbing down into a chimney-pot, only his head and front legs showing."
-- [ ] **18.** `bill_rocket.png` (attach 4.3): "The lizard from this plate, flying up out of a chimney-pot like a sky-rocket in a cloud of soot."
+- [x] **18.** `bill_rocket.png` (attach 4.3): "The lizard from this plate, flying up out of a chimney-pot like a sky-rocket in a cloud of soot."
 - [ ] **19.** `bill_held.png`: "The same lizard, limp and dazed, held up under the arms by two guinea-pigs; one of them holds a small bottle to his mouth."
-- [ ] **20.** `puppy_look.png` (attach 4.4): "The enormous puppy from this plate, looking down with large round eyes, one paw stretched out. White background."
-- [ ] **21.** `puppy_jump.png`: "The same puppy jumping into the air off all four feet at once, yelping with delight."
-- [ ] **22.** `puppy_tumble.png`: "The same puppy tumbling head over heels."
-- [ ] **23.** `puppy_sit.png`: "The same puppy sitting a good way off, panting, tongue hanging out, eyes half shut."
+- [x] **20.** `puppy_look.png` (attach 4.4): "The enormous puppy from this plate, looking down with large round eyes, one paw stretched out. White background."
+- [x] **21.** `puppy_jump.png`: "The same puppy jumping into the air off all four feet at once, yelping with delight."
+- [x] **22.** `puppy_tumble.png`: "The same puppy tumbling head over heels."
+- [x] **23.** `puppy_sit.png`: "The same puppy sitting a good way off, panting, tongue hanging out, eyes half shut."
 - [ ] **24.** `caterpillar_first.png`: "A large caterpillar sitting on the top of a mushroom, arms folded, quietly smoking a long hookah, after Tenniel's Caterpillar. Seen from just below the edge of the mushroom cap." (The game colours him blue.)
 
 ### Sets and props
